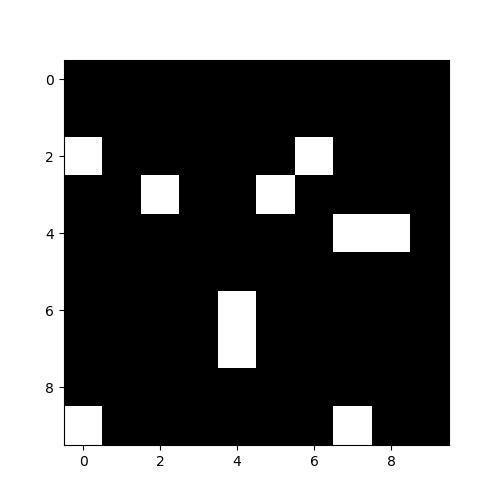
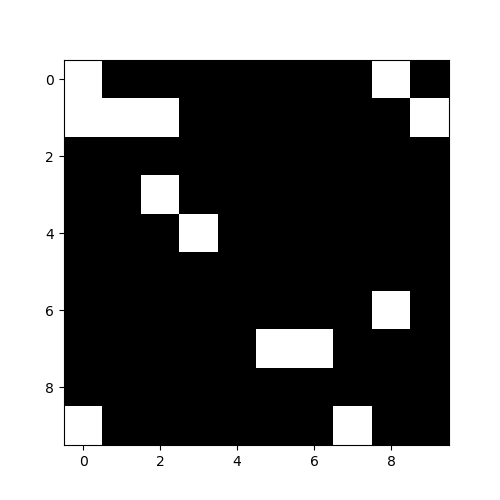
It works

diff --git a/Task8_Columnwise_shifted_pictures.py b/Task8_Columnwise_shifted_pictures.py
@@ -6,6 +6,9 @@ from mpi4py import MPI
 import time
 
 name = 'animation_walking.gif'
+name_pict = "foo"
+
+start_time = time.time()
 
 
 def plot_fun(set, name_pict):
@@ -14,10 +17,13 @@ def plot_fun(set, name_pict):
     plt.savefig("fig/"+name_pict+".png")
 
 
-def anim(name_pict):
+def anim():
     with imageio.get_writer(name, duration=0.5) as writer:
-        writer.append_data(imageio.imread(name_pict))
+        for i in range(0, step):
+         writer.append_data(imageio.imread("fig/"+name_pict+str(i)+".png"))
 
+
+step = 11
 
 comm = MPI.COMM_WORLD
 size_x, size_y = 10, 10
@@ -28,31 +34,32 @@ n = size_y//s
 n_last = size_y - n*s
 rank = comm.rank
 
-comm.Barrier()
+comm.barrier()
 
 if comm.rank != s-1:
+
     part_picture = np.random.choice([0, 1], (size_x, n+2), replace=True, p=[coeff, 1.0 - coeff])
     print('DOING rand_picture')
     if rank != 0:
-        comm.isend(part_picture, dest=0)#, tag=comm.rank)
+        comm.send(part_picture, dest=0)#, tag=comm.rank)
         print('Process {} sent data:'.format(rank), part_picture)
 
 else:
     part_picture = np.random.choice([0, 1], (size_x, n+n_last+2), replace=True, p=[coeff, 1.0 - coeff])
     print('DOING rand_picture')
 
-    comm.isend(part_picture, dest=0)#, tag=comm.rank)
+    comm.send(part_picture, dest=0)#, tag=comm.rank)
     print('Process {} sent data:'.format(rank), part_picture)
 
-comm.Barrier()
+comm.barrier()
 
 if comm.rank == 0:
     picture = np.zeros((size_x, size_y))
     picture[:, 0:n] = part_picture[:, 1: -1]
 
     for i in range(1, s):
-        request = comm.irecv(source=i)#, tag=i)
-        recvdata = request.wait()
+        recvdata = comm.recv(source=i)#, tag=i)
+        # recvdata = request.wait()
         print('Process {} recvdata[:, 1:-1]] data:'.format(rank))
         print(recvdata[:, 1:-1])
         print("This is picture[:, i*n:i*n+n]")
@@ -63,88 +70,75 @@ if comm.rank == 0:
         else:
             picture[:, i*n:i*n+n] = recvdata[:, 1:-1]
 
-    plot_fun(picture, "foo")
+    print("INIT PICTURE")
+    print(picture)
 
-comm.Barrier()
-#for i in range(s):
-#    comm.Barrier()
+    plot_fun(picture, "foo0")
+
+comm.barrier()
 
 # loop
 
-if comm.rank != s-1:
-    for i in range(size_x):
-        part_picture[i] = np.roll(part_picture[i], 1)
-    print('ROLL part_picture')
+for j in range(1, step):
 
-    if rank != 0:
-        comm.isend(part_picture[:, -1], dest=comm.rank+1)#, tag=comm.rank)
+    if comm.rank != s-1:
+        for i in range(size_x):
+            part_picture[i] = np.roll(part_picture[i], 1)
+        print('ROLL part_picture')
+
+        comm.send(part_picture[:, -1], dest=comm.rank+1)#, tag=comm.rank)
         print('Process {} sent ROLL data:'.format(rank), part_picture[:, -1])
 
-else:
-    for i in range(size_x):
-        part_picture[i] = np.roll(part_picture[i], 1)
-    print('ROLL part_picture')
+    else:
+        for i in range(size_x):
+            part_picture[i] = np.roll(part_picture[i], 1)
+        print('ROLL part_picture')
 
-    comm.isend(part_picture[:, -1], dest=0)#, tag=comm.rank)
-    print('Process {} sent ROLL data:'.format(rank), part_picture[:, -1])
+        comm.send(part_picture[:, -1], dest=0)#, tag=comm.rank)
+        print('Process {} sent ROLL data:'.format(rank), part_picture[:, -1])
 
-comm.Barrier()
+    comm.barrier()
 
-#for i in range(s):
-#    comm.Barrier()
+    # combine the picture
+
+    if comm.rank == 0:
+        recvdata1 = comm.recv(source=s-1)#, tag=s-1)
+        print('Process {} recvdata1 :'.format(rank))
+        part_picture[:, 1] = recvdata1 #.reshape()
+
+    else:
+        recvdata1 = comm.recv(source=comm.rank-1)#, tag=comm.rank-1)
+        print('Process {} recvdata1 :'.format(rank))
+        part_picture[:, 1] = recvdata1
+
+        comm.send(part_picture[:, 1: -1], dest=0)#, tag=comm.rank+s)
+        print('Process {} sent ROLL data for picture:'.format(rank), part_picture[:, 1: -1])
 
 
-# combine the picture
+    comm.barrier()
+
+    if comm.rank == 0:
+        picture = np.zeros((size_x, size_y))
+        picture[:, 0:n] = part_picture[:, 1: -1]
+
+        for i in range(1, s):
+            recvdata2 = comm.recv(source=i)#, tag=i+s)
+            # recvdata2 = request2.wait()
+            print('Process {} recvdata for picture data:'.format(rank))
+            print(recvdata2)
+            print("This is picture[:, i*n:i*n+n]")
+            print(picture[:, i*n:i*n+n])
+
+            if i == s-1:
+                picture[:, (size_y-n-n_last):size_y] = recvdata2
+            else:
+                picture[:, i*n:i*n+n] = recvdata2
+
+        plot_fun(picture, "foo"+ str(j))
+
+comm.barrier()
+
 if comm.rank == 0:
-    request1 = comm.irecv(source=s-1)#, tag=s-1)
-    recvdata1 = request1.wait()
-    part_picture[:, 1] = recvdata1
-
-else:
-    request1 = comm.irecv(source=comm.rank-1)#, tag=comm.rank-1)
-    recvdata1 = request1.wait()
-    part_picture[:, 1] = recvdata1
-    comm.isend(part_picture[:, 1: -1], dest=0)#, tag=comm.rank+s)
-    print('Process {} sent ROLL data for picture:'.format(rank), part_picture[:, 1: -1])
-
-'''
-comm.Barrier()
-
-if comm.rank != 0:
-    # send to create picture
-
-    comm.isend(part_picture[:, 1: -1], dest=0)#, tag=comm.rank+s)
-    print('Process {} sent ROLL data for picture:'.format(rank), part_picture[:, 1: -1])
-
-# comm.Barrier()
-
-
-
-
-comm.Barrier()
-#for i in range(s):
-#    comm.Barrier()
-# create picture
-
-if comm.rank == 0:
-    picture = np.zeros((size_x, size_y))
-    picture[:, 0:n] = part_picture[:, 1: -1]
-
-    for i in range(1, s):
-        request2 = comm.irecv(source=i)#, tag=i+s)
-        recvdata2 = request2.wait()
-        print('Process {} recvdata for picture data:'.format(rank))
-        print(recvdata2)
-        print("This is picture[:, i*n:i*n+n]")
-        print(picture[:, i*n:i*n+n])
-
-        if i == s-1:
-            picture[:, (size_y-n-n_last):size_y] = recvdata2
-        else:
-            picture[:, i*n:i*n+n] = recvdata2
-
-    plot_fun(picture, "foo1")
-
-# comm.Barrier()
-
-'''
+    anim()
+    print("Finish")
+    print("--- %s seconds ---" % (time.time() - start_time))
